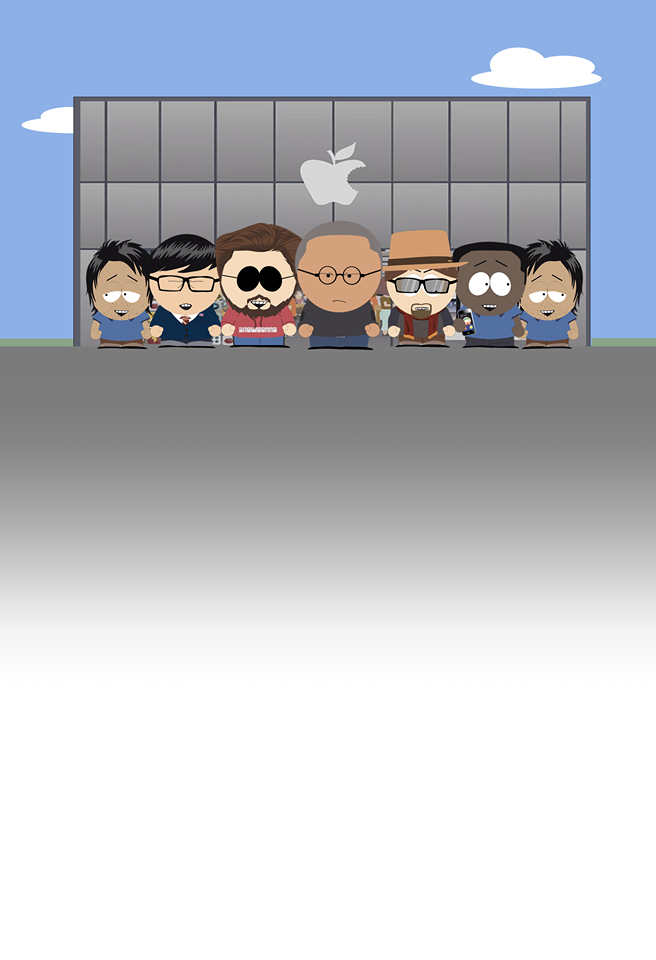
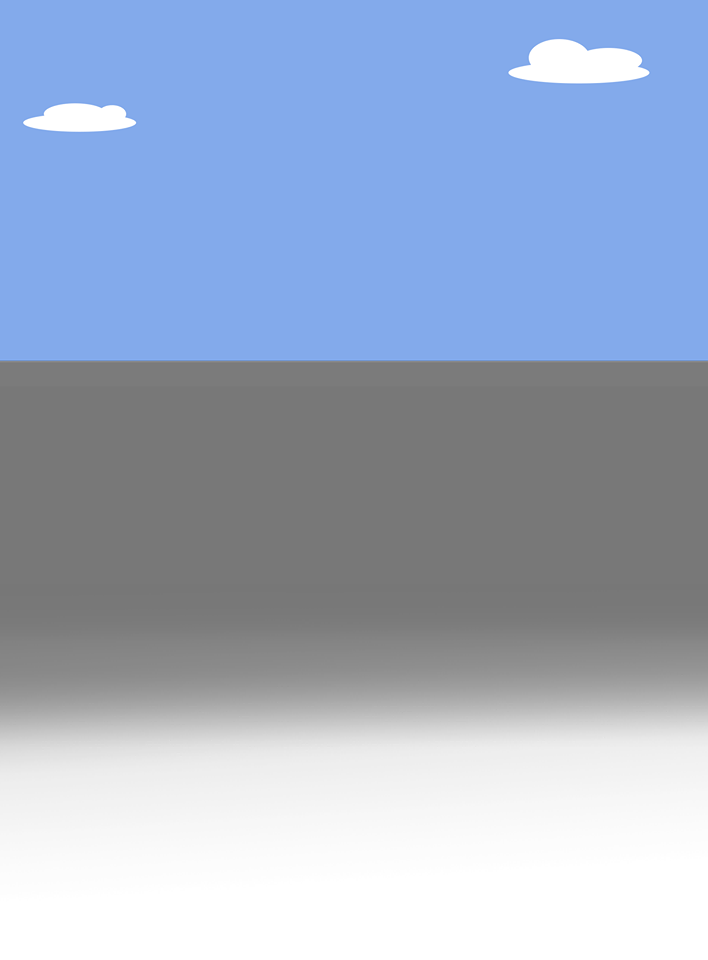
add disign for game.html

diff --git a/styles/style.css b/styles/style.css
@@ -6,22 +6,19 @@
 body {
 	margin: 0 auto;
 	padding: 0;
+	background-image: url('../images/BackgroundMain2.png');
 }
-.main{
-	background-image: url('../images/BackgroundMain.png');
-	background-size: cover;
-}
+
 .game {
 	position: relative;
 	width: 960px;
-	height: 100%;
 	margin: 0 auto;
 	display: flex;
 	flex-wrap: wrap;
 	overflow: hidden;
 }
 .safeZone {
-	width: 100px;
+	width: 96px;
 	height: 400px;
 }
 .defense {
@@ -33,6 +30,7 @@ body {
 	display: flex;
 	background-image: url("../images/Plan de travail 1.png");
 	margin-top: 50px;
+	border: 2px black solid;
 }
 .street {
 	width: 660px;
@@ -43,7 +41,6 @@ body {
 .range {
 	width: 220px;
 	height: 400px;
-	border-left: 1px solid black;
 }
 #mob {
 	width: 60px;
@@ -57,26 +54,26 @@ body {
 	width: 100%;
 	border-radius: 2px;
 }
-.menu {
-	display: flex;
-	text-align: center;
-}
 .seller1, .seller2 {
 	margin: 10px;
+	background-color: white;
+	opacity: 0.9;
+	width: 300px;
+	padding:10px
 }
-#nextLevel {
-	position: fixed;
-	top: 28%;
-	left: 45%;
-	border:none;
-	padding:6px 6px 6px 6px;
-	border-radius:4px;
-	box-shadow:1px 1px 3px #aaa;
-	background:#f38b1b;
-	font:bold 13px Arial;
-	color:black;
-	font-family:'SouthPark';
+.menuInfo{
+	width:300px;
+	background-color: white;
+	padding: 10px;
+	margin: 10px;
 }
+.money > p {
+	width: 30px;
+	height:30px;
+	padding-top: 6px;
+	margin-left:40px;
+}
+
 .defense {
 	display: flex;
 }
@@ -100,7 +97,6 @@ body {
 
 
 #heros{
-	margin-top: 20px;
 	width:60px;
 	height:60px;
 	margin-left:30px;
@@ -114,6 +110,46 @@ body {
 	left:90px;
 }
 
+/*	Menu for sellers, information and upgrades*/
+.menu {
+	display: flex;
+	justify-content: center;
+	width:960px;
+	height:100%;
+}
+
+#nextLevel {
+	position: fixed;
+	top: 28%;
+	left: 45%;
+	border:none;
+	padding:6px 6px 6px 6px;
+	border-radius:4px;
+	box-shadow:1px 1px 3px #aaa;
+	background:#f38b1b;
+	font:bold 13px Arial;
+	color:black;
+	font-family:'SouthPark';
+	outline: none;
+}
+.money{
+	width:30px;
+	height:30px;
+	background-image: url('../images/money.png');
+	background-size: cover;
+	margin-left: 100px;
+	margin-top: 60px;
+}
+
+.price{
+	font-family: 'SouthPark';
+	text-align: center;
+	margin-top: 15px;
+}
+p{
+	font-family: 'Montserrat', sans-serif;
+	text-align: center;
+}
 
 /*disign button buy*/
 .button{
@@ -125,6 +161,11 @@ body {
 	font:bold 13px Arial;
 	color:black;
 	font-family:'SouthPark';
+	outline: none;
+}
+
+.upgrade{
+	text-align: center;
 }
 
 /*Disign button upgrade*/
@@ -137,7 +178,17 @@ body {
 	font:bold 13px Arial;
 	color:black;
 	font-family:'SouthPark';
+	outline: none;
 }
+
+/*Button hovers*/
+.button:hover{
+	cursor: pointer;
+}
+.buttonUpgrade:hover{
+	cursor: pointer;
+}
+
 
 .retry {
 	padding: 30px;
@@ -182,13 +233,13 @@ body {
 }
 
 .boss{
-	background-image: url('../imagesC/lientSamsoul.pngg');
-	background-size: contain;
-	background-repeat: no-repeat;
+	animation-name: animationBoss;
+	animation-duration: 1.2s;
+	animation-iteration-count: infinite;
 }
 .animationHeros{
 	animation-name: animationHeros;
-	animation-duration: 0.9s;
+	animation-duration: 1.2s;
 	animation-iteration-count: infinite;
 }
 

diff --git a/scripts/app.js b/scripts/app.js
@@ -68,7 +68,7 @@ let spots = document.querySelectorAll('.spot') // 4 spaces in order to put the t
 let freeSpots = 4 //Free spots for tower
 
 let levelSeller1 = document.querySelector('.seller1 .level').innerHTML = seller1.level //div containing level of the the seller type 1 (smartphone launcheur)
-let levelSeller2 = document.querySelector('.seller2 .level').innerHTML = seller2.level //div containing level of the the seller type 2 (computer launcheur) 
+let levelSeller2 = document.querySelector('.seller2 .level').innerHTML = seller2.level //div containing level of the the seller type 2 (computer launcheur)
 // div containing price to upgrade
 let priceSeller2 = document.querySelector('.seller2 .upgrade .price').innerHTML = seller2.price
 let priceSeller1 = document.querySelector('.seller1 .upgrade .price').innerHTML = seller1.price
@@ -78,10 +78,10 @@ let money = 0 //money of the player (at 0 in the beginnning)
 let level = 1 // the wave
 let wall = 1000 // vie du mur
 let wallLife = document.querySelector('.wallLife p').innerHTML = "Vie du mur : " + wall // displaying the wall life in the menu
-let bestScore = 0 
+let bestScore = 0
 
 //Defining the 4 horizontal axis where the mob can pop on the game surface
-let variousSpawn = ['20px', '120px','220px','320px'] 
+let variousSpawn = ['20px', '120px','220px','320px']
 
 //The spawn interval when the game start
 let timeInterval = 5000
@@ -126,7 +126,7 @@ function defeat(){
 	let death = setInterval(function(){
 		if (wall <= 0){ //checking if wall life is superior to 0
 			if (bestScore < level){ //checking if the last level of the current party is better than the best score and if it is refreshing the best score
-				bestScore = level 
+				bestScore = level
 			}
 			let retry = document.createElement('button') //creating the button to restart the game
 			retry.classList.add('retry') //giving this button a class to put styles in css
@@ -145,7 +145,7 @@ function defeat(){
 					location.reload()
 				})
 			clearInterval(wall)
-			
+
 		}
 	},300)
 }
@@ -166,9 +166,9 @@ function spawn() {
 
 		}
 	}
-	
-	mobSpawned.push({position : 0, life : mobVariant.health})//putting the life, the position of the mob in an object in an array declared in the variables 
-	
+
+	mobSpawned.push({position : 0, life : mobVariant.health})//putting the life, the position of the mob in an object in an array declared in the variables
+
 	let mobPlace = amountMob // the place of the mob in the wave
 	let posX = document.querySelector('.street').offsetWidth // decalring position of the mob when spawning
 	let towerDamage
@@ -263,7 +263,7 @@ function stopSpawn(){
 				amountMob = 0
 				clearInterval(ending)
 				createButton()//run this function if the wave his finished
-			}	
+			}
 		}
 	}, 2000)
 }
@@ -354,7 +354,7 @@ function generateShoot(){
 function destroyShoot(thisShoot){
 	let obj = document.querySelector('.defense')
 	obj.removeChild(thisShoot)
-	amountShoot -- 
+	amountShoot --
 }
 
 //checking collision between an a element and a b element

diff --git a/game.html b/game.html
@@ -4,6 +4,7 @@
 		<meta charset="utf-8">
 		<title>Titre de ma page</title>
 		<meta name="description" content="Description de ma page">
+		<link href="https://fonts.googleapis.com/css?family=Montserrat" rel="stylesheet">
 		<link rel="stylesheet" href="styles/style.css">
 	</head>
 	<body>
@@ -28,19 +29,20 @@
 					</div>
 				</div>
 				<div class="menu">
-					<div class="money">
-						<img src="../images/money.png" alt="Logo monnaie">
-						<p></p>
-					</div>
-					<div class="wallLife">
-						<p>Vie du mur : </p>
-					</div>
-					<div class="level">
-						<p>Niveau : 1</p>
+					<div class="menuInfo">
+						<div class="money">
+							<p></p>
+						</div>
+						<div class="wallLife">
+							<p>Vie du mur : </p>
+						</div>
+						<div class="level">
+							<p>Niveau : 1</p>
+						</div>
 					</div>
 					<div class="seller1">
 						<div class="buy">
-							<button class="button">Achetez un vendeur lanceur de smartphone</button>
+							<button class="button">Achetez un vendeur lanceur de Papel-Phone : 200$</button>
 							<p>Précis, ce vendeur attaquera de loin mais il infligera des dégâts moindres aux clients enragés.</p>
 						</div>
 						<div class="upgrade">
@@ -51,7 +53,7 @@
 					</div>
 					<div class="seller2">
 						<div class="buy">
-							<button class="button">Achetez un vendeur lanceur de mac</button>
+							<button class="button">Achetez un vendeur lanceur de Papel-Kintoch : 500$</button>
 							<p>Robuste, ce vendeur attaquera uniquement de près mais il infligera de gros dégâts aux clients enragés.</p>
 						</div>
 						<div class="upgrade">
